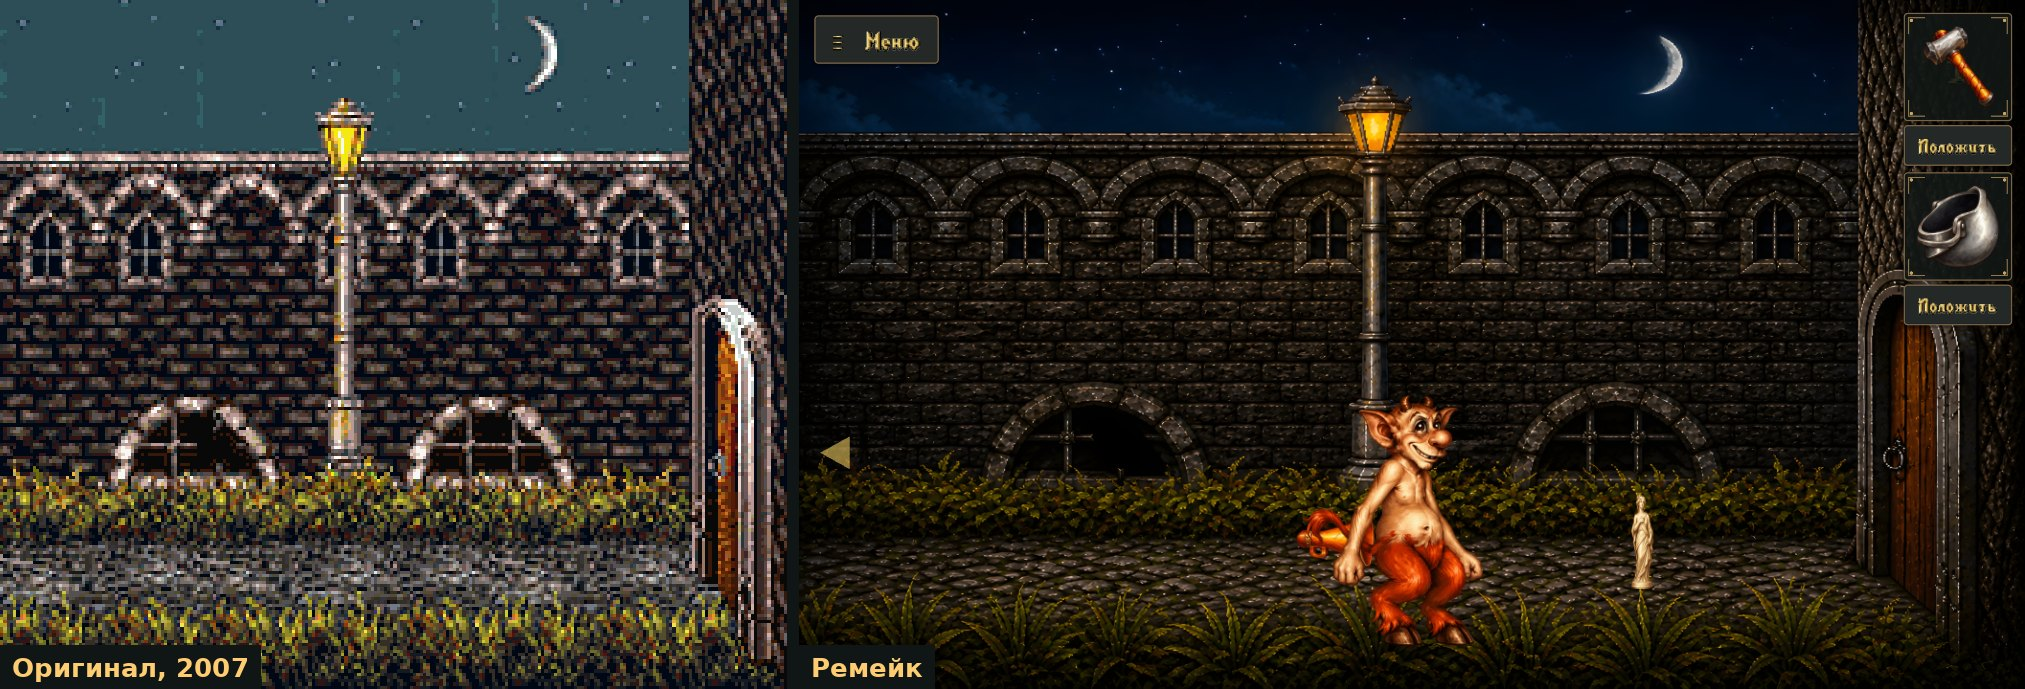
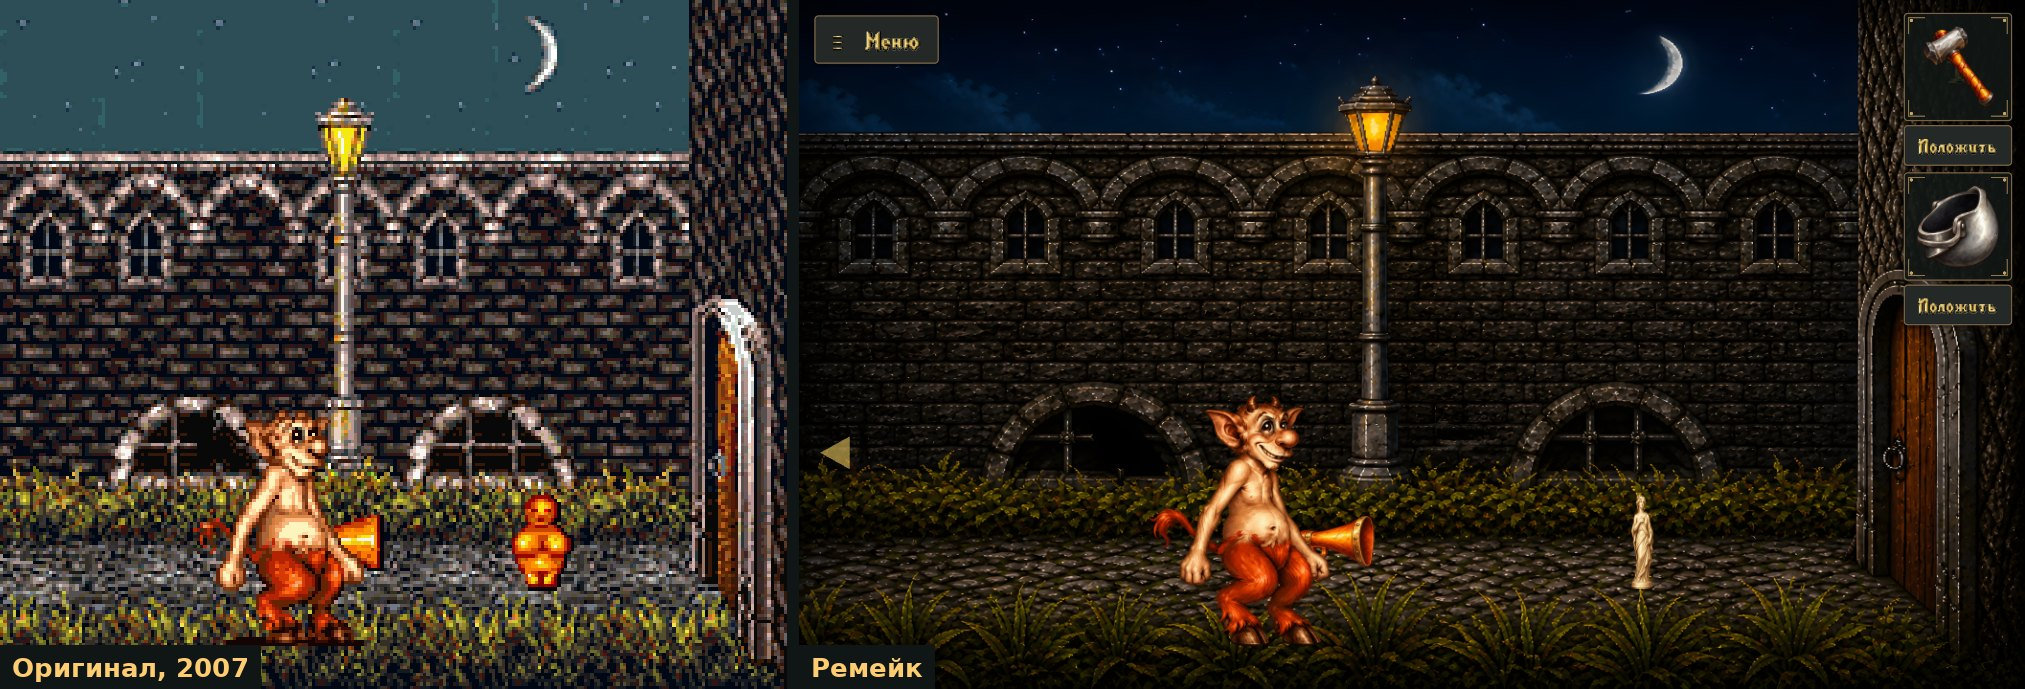
README: сравнения с теми же персонажами в оригинале и ремейке
Claude-Session: https://claude.ai/code/session_01Rjq7pApAemDETsMyzzGjik

Changed region(s): [[0.56, 0.5791, 0.7467, 0.9448], [0.0933, 0.5791, 0.1867, 0.9448], [0.2489, 0.701, 0.28, 0.8534]]

diff --git a/README.md b/README.md
@@ -43,7 +43,7 @@
 
 ### Было и стало
 
-<img src="docs/compare-street.jpg" alt="Улица: оригинал и ремейк">
+<img src="docs/compare-kitchen.jpg" alt="Кухня монастыря: оригинал и ремейк">
 
 <img src="docs/compare-monastery.jpg" alt="Монастырь: оригинал и ремейк">
 
